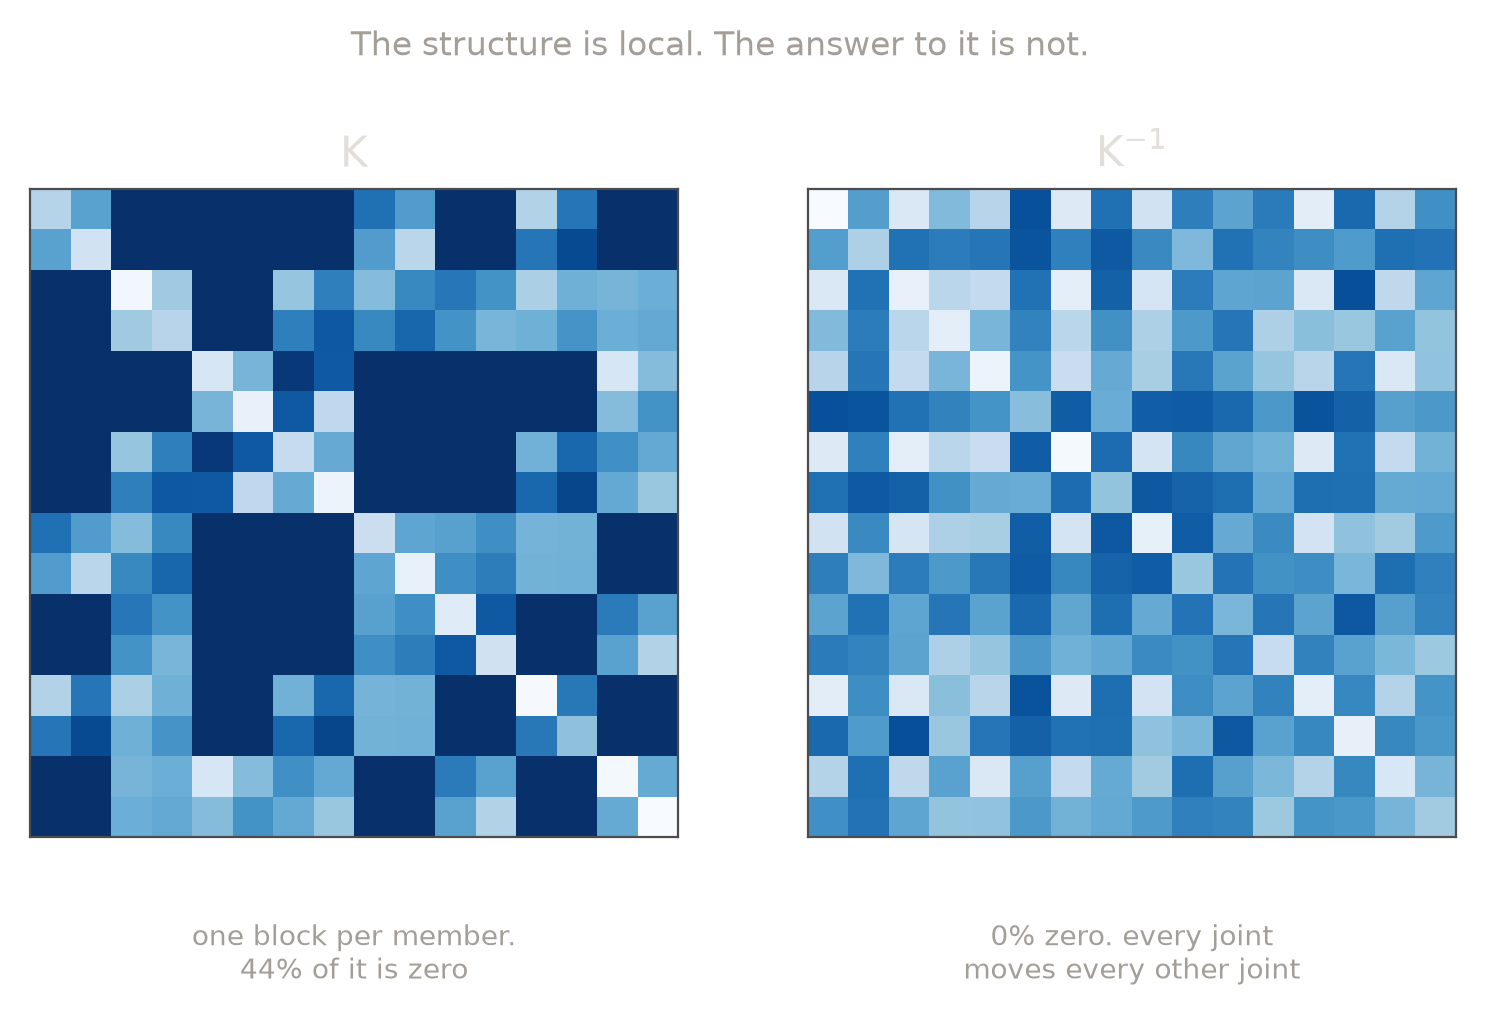
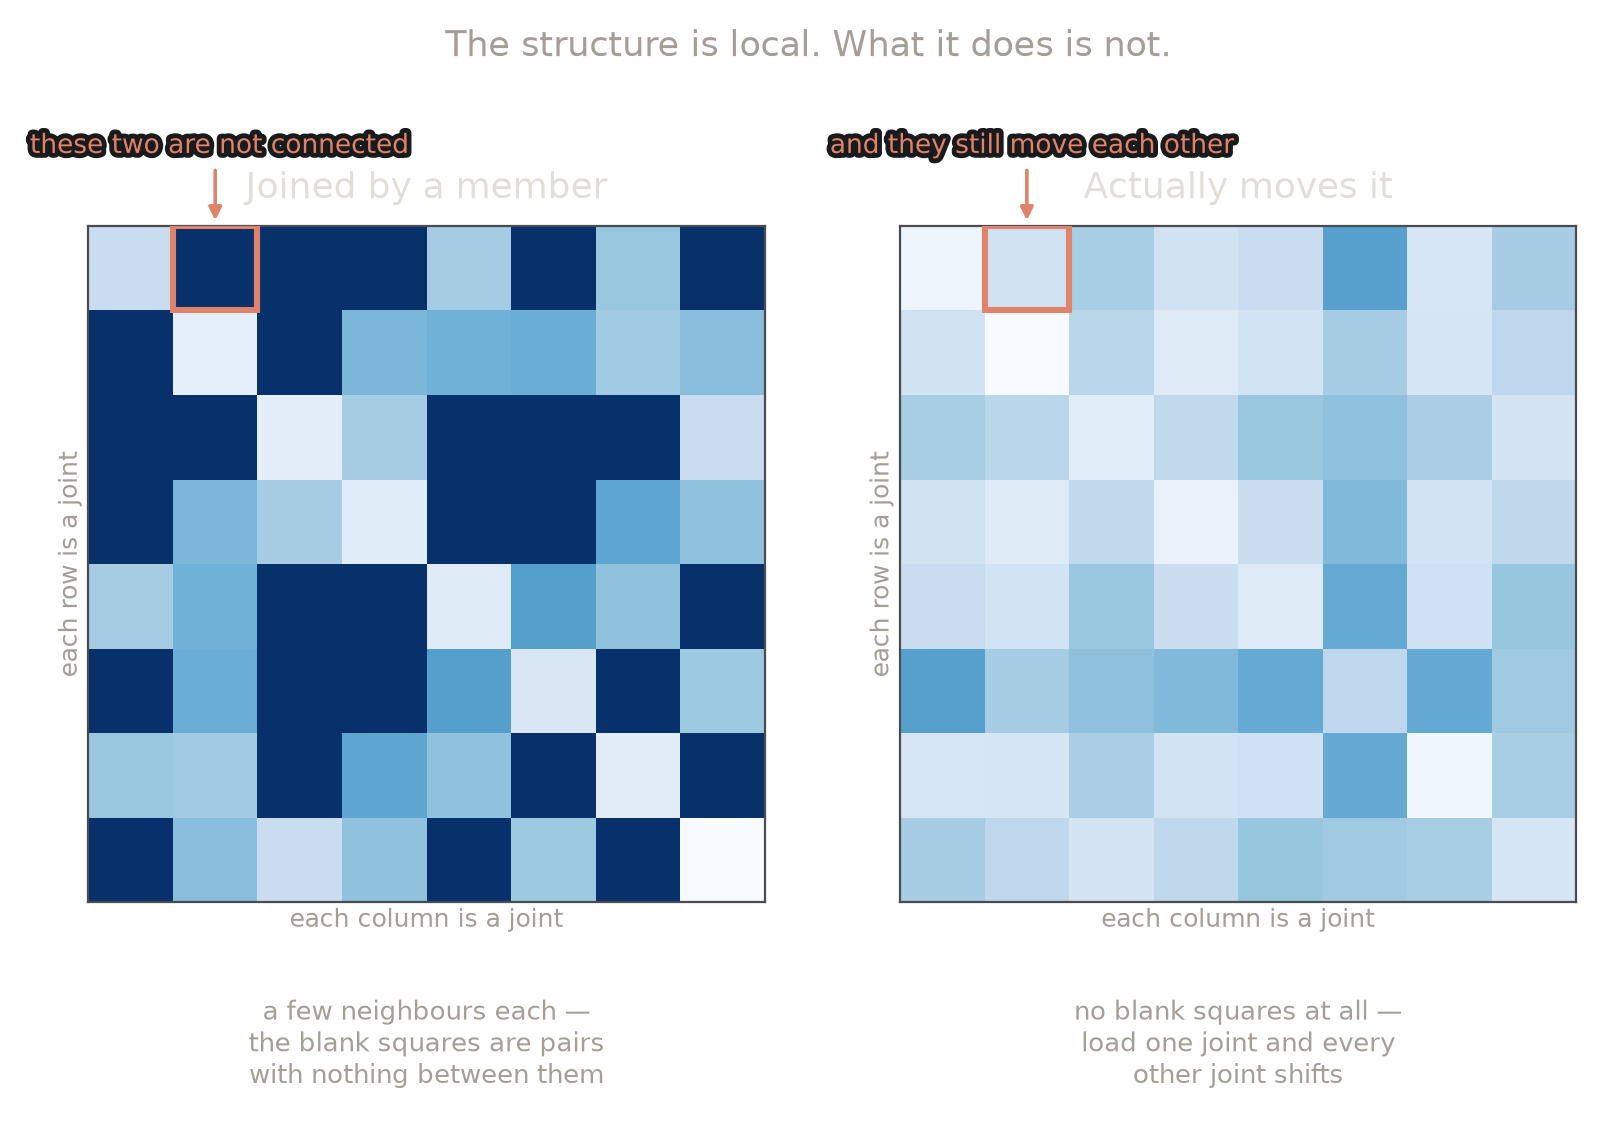
Rewrite the sparsity figure so a reader can actually read it
It was labelled K and K inverse, with two rows per joint and no explanation of
either. The article never mentions matrices at all -- it talks about fishing
nets -- so the figure arrived from nowhere in a notation the reader had not been
given and could not be expected to have.

Now it says what it means. One square per *pair of joints* rather than per
degree of freedom, so a row is a joint and a reader can hold that. "Joined by a
member" beside "Actually moves it". Axes labelled. And one specific square
called out in both panels -- these two are not connected, and they still move
each other -- which is the comparison the figure exists to make and the thing
there was previously no way to know to look for.

The callout sits above the grid: red text over blue cells is unreadable and a
halo does not save it.

diff --git a/web/article/index.html b/web/article/index.html
@@ -353,8 +353,9 @@ joint</em>. Pull one corner of a fishing net and the whole net rearranges itself
 There is no such thing as a local answer: the joint you care about cannot settle
 until its neighbours settle, and they cannot settle until their neighbours do,
 all the way to the ground and back.</p>
-<figure class="fig"><picture><source srcset="../../images/stiffness-dark.png" media="(prefers-color-scheme: dark)"><img alt="Two matrices side by side. K has visible gaps in it; its inverse is
-completely filled in." src="../../images/stiffness.png" /></picture></figure>
+<figure class="fig"><picture><source srcset="../../images/stiffness-dark.png" media="(prefers-color-scheme: dark)"><img alt="Two grids of squares, one square per pair of joints. The left grid, showing
+which joints are joined by a member, has many blank squares. The right grid,
+showing which joints actually move each other, has none." src="../../images/stiffness.png" /></picture></figure>
 <p>Image networks are built on the opposite assumption. They work brilliantly for
 pictures precisely because pictures <em>are</em> mostly local — a cat&rsquo;s ear is a cat&rsquo;s
 ear regardless of what is happening in the far corner of the photo. Stacking

diff --git a/training/build_figures.py b/training/build_figures.py
@@ -134,34 +134,78 @@ def stiffness():
                           [-c * sn, -sn * sn, c * sn, sn * sn]])
         K[np.ix_(rows, rows)] += block / L
 
-    free = np.array(sorted(set(range(2 * n)) - {s['supports'][0] * 2, s['supports'][0] * 2 + 1,
-                                                s['supports'][1] * 2, s['supports'][1] * 2 + 1}))
+    joints = [i for i in range(n) if i not in s['supports']]
+    free = np.array([d for i in joints for d in (i * 2, i * 2 + 1)])
     Kff = K[np.ix_(free, free)]
     inverse = np.linalg.inv(Kff)
 
-    # State what the picture actually shows. A ten-joint truss is small, so K is
-    # only moderately sparse; the striking half is the inverse, which has no
-    # zeros at all. Claiming "mostly empty" would overstate the left panel.
-    empty_k = (np.abs(Kff) < 1e-12).mean() * 100
-    empty_inv = (np.abs(inverse) < 1e-12).mean() * 100
+    # Collapse each 2x2 block to one number per pair of joints. The raw matrices
+    # carry two rows per joint, one per direction, which is a detail the article
+    # never mentions and a reader would have to be told to ignore. One cell per
+    # pair of joints is a claim they can read straight off: does this joint
+    # affect that one.
+    def per_joint(matrix):
+        size = len(joints)
+        out = np.zeros((size, size))
+        for a in range(size):
+            for b in range(size):
+                out[a, b] = np.linalg.norm(matrix[2 * a:2 * a + 2, 2 * b:2 * b + 2])
+        return out
 
-    fig, axes = plt.subplots(1, 2, figsize=(9.2, 4.6))
-    for ax, matrix, title, note in (
-        (axes[0], Kff, 'K', f'one block per member.\n{empty_k:.0f}% of it is zero'),
-        (axes[1], inverse, 'K$^{-1}$', f'{empty_inv:.0f}% zero. every joint\nmoves every other joint'),
-    ):
-        magnitude = np.abs(matrix) / np.abs(matrix).max()
+    connected = per_joint(Kff)
+    influence = per_joint(inverse)
+
+    # Somewhere the two panels visibly disagree: a pair with no member between
+    # them that nonetheless moves each other. Pointing at one specific square is
+    # what turns this from decoration into an argument.
+    gap = None
+    for a in range(len(joints)):
+        for b in range(len(joints)):
+            if a != b and connected[a, b] < 1e-12:
+                gap = (a, b)
+                break
+        if gap:
+            break
+
+    fig, axes = plt.subplots(1, 2, figsize=(9.6, 5.0))
+    panels = (
+        (axes[0], connected, 'Joined by a member',
+         'a few neighbours each —\nthe blank squares are pairs\nwith nothing between them'),
+        (axes[1], influence, 'Actually moves it',
+         'no blank squares at all —\nload one joint and every\nother joint shifts'),
+    )
+    for ax, matrix, title, note in panels:
+        magnitude = matrix / matrix.max()
         ax.imshow(magnitude ** 0.35, cmap=CMAP, vmin=0, vmax=1)
-        ax.set_title(title, color=STRONG, fontsize=15, pad=8)
-        ax.text(0.5, -0.13, note, transform=ax.transAxes, ha='center',
-                va='top', color=INK, fontsize=10)
+        ax.set_title(title, color=STRONG, fontsize=13, pad=10)
+        ax.text(0.5, -0.14, note, transform=ax.transAxes, ha='center',
+                va='top', color=INK, fontsize=9.5)
+        ax.set_xlabel('each column is a joint', color=INK, fontsize=9, labelpad=2)
+        ax.set_ylabel('each row is a joint', color=INK, fontsize=9, labelpad=2)
         ax.set_xticks([])
         ax.set_yticks([])
         for spine in ax.spines.values():
             spine.set_color(FAINT)
 
-    fig.suptitle('The structure is local. The answer to it is not.',
-                 color=INK, fontsize=12, y=1.02)
+        if gap:
+            ax.add_patch(plt.Rectangle((gap[1] - 0.5, gap[0] - 0.5), 1, 1,
+                                       fill=False, edgecolor=RED, lw=2.2, zorder=3))
+
+    if gap:
+        # Above the grid, not on it: red text over blue cells is unreadable, and
+        # a halo alone does not rescue it.
+        halo = [path_effects.withStroke(linewidth=3.5, foreground=BG)]
+        for ax, text in ((axes[0], 'these two are not connected'),
+                         (axes[1], 'and they still move each other')):
+            ax.annotate(text, (gap[1], gap[0] - 0.5),
+                        textcoords='offset points', xytext=(0, 24),
+                        ha='center', va='bottom', color=RED, fontsize=9.5,
+                        path_effects=halo, annotation_clip=False,
+                        arrowprops=dict(arrowstyle='-|>', color=RED, lw=1.3,
+                                        shrinkA=2, shrinkB=2))
+
+    fig.suptitle('The structure is local. What it does is not.',
+                 color=INK, fontsize=12.5, y=1.03)
     save(fig, 'stiffness')
 
 

diff --git a/article.md b/article.md
@@ -156,8 +156,9 @@ There is no such thing as a local answer: the joint you care about cannot settle
 until its neighbours settle, and they cannot settle until their neighbours do,
 all the way to the ground and back.
 
-![Two matrices side by side. K has visible gaps in it; its inverse is
-completely filled in.](images/stiffness.png)
+![Two grids of squares, one square per pair of joints. The left grid, showing
+which joints are joined by a member, has many blank squares. The right grid,
+showing which joints actually move each other, has none.](images/stiffness.png)
 
 Image networks are built on the opposite assumption. They work brilliantly for
 pictures precisely because pictures *are* mostly local — a cat's ear is a cat's
